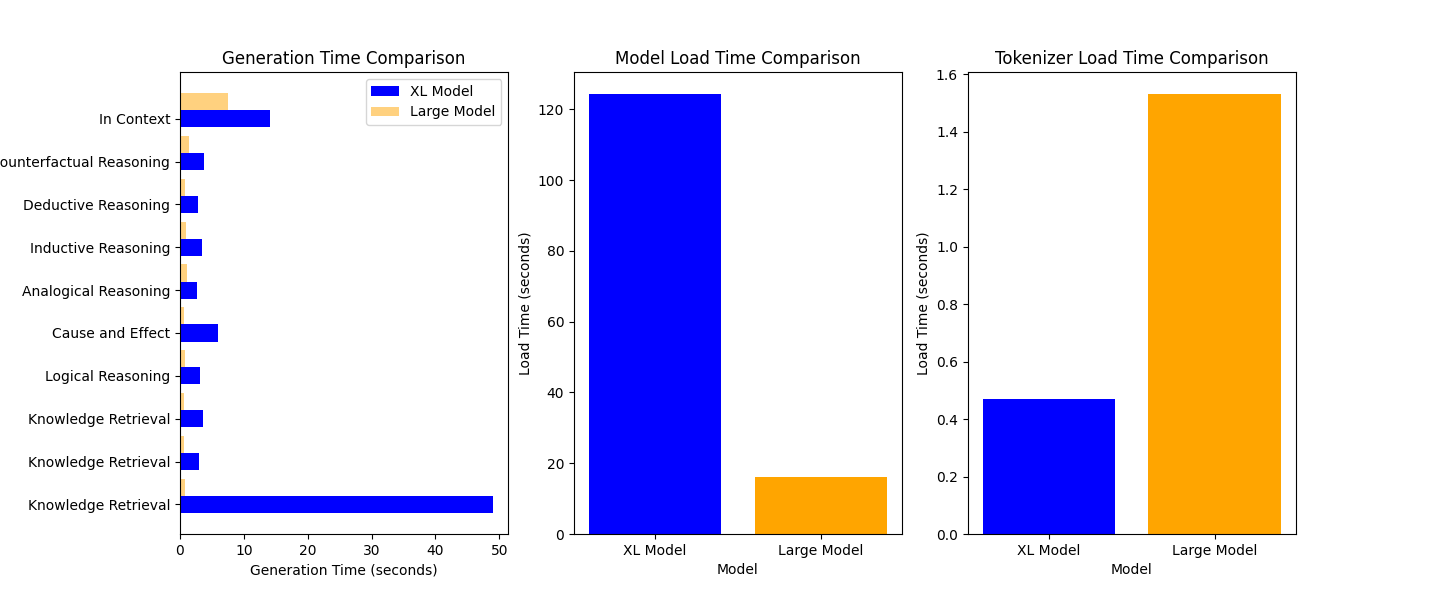
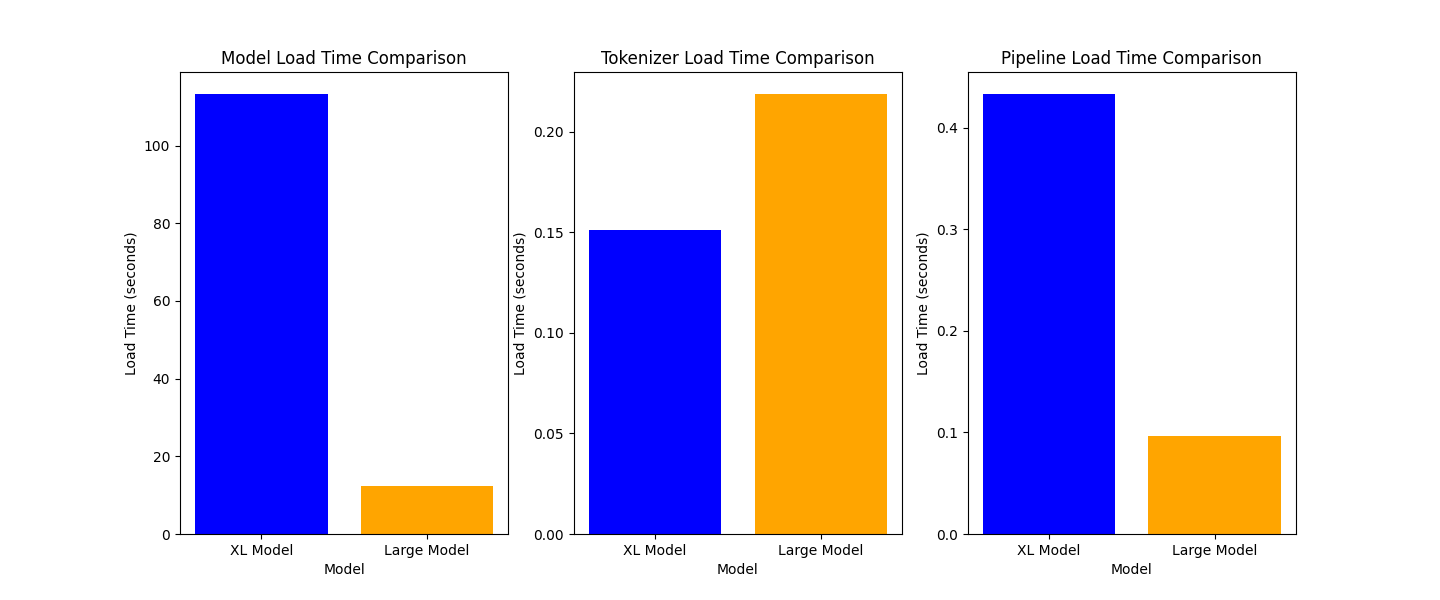
updated script and charts
updated the plots

diff --git a/t5pat46.py b/t5pat46.py
@@ -81,7 +81,7 @@ for model_id in model_ids:
 
     # Print model results
     print()
-    print(f"Results for model {model_id}")
+    print(f"Results for model: {model_id}")
     print("=" * 30)
 
     # Knowledge retrieval examples
@@ -107,22 +107,13 @@ for model_id in model_ids:
     print("Model Loading Time:", f"{model_end_time - model_start_time:.5f}", "seconds")
     print("Pipeline Loading Time:", f"{pipe_end_time - pipe_start_time:.5f}", "seconds\n\n")
 
-# Plot generation times
-plt.figure(figsize=(18, 6))
-plt.subplot(131)
-plt.barh(range(len(types)), xl_generation_times, height=0.4, align='center', color='blue', label='XL Model')
-plt.barh([x + 0.4 for x in range(len(types))], large_generation_times, height=0.4, align='center', color='orange', alpha=0.5, label='Large Model')
-plt.yticks(range(len(types)), types)
-plt.ylabel('Type')
-plt.xlabel('Generation Time (seconds)')
-plt.title('Generation Time Comparison')
-plt.legend()
 
 # Plot model load times
 model_load_times = [sum(xl_model_load_times), sum(large_model_load_times)]
 model_labels = ['XL Model', 'Large Model']
 
-plt.subplot(132)
+plt.figure(figsize=(18, 6))
+plt.subplot(131)
 plt.bar(model_labels, model_load_times, color=['blue', 'orange'])
 plt.ylabel('Load Time (seconds)')
 plt.xlabel('Model')
@@ -131,7 +122,7 @@ plt.title('Model Load Time Comparison')
 # Plot tokenizer load times
 tokenizer_load_times = [sum(xl_tokenizer_load_times), sum(large_tokenizer_load_times)]
 
-plt.subplot(133)
+plt.subplot(132)
 plt.bar(model_labels, tokenizer_load_times, color=['blue', 'orange'])
 plt.ylabel('Load Time (seconds)')
 plt.xlabel('Model')
@@ -139,13 +130,23 @@ plt.title('Tokenizer Load Time Comparison')
 
 # Plot pipeline load times
 pipeline_load_times = [sum(xl_pipeline_load_times), sum(large_pipeline_load_times)]
-
-plt.figure(figsize=(8, 6))
+plt.subplot(133)
 plt.bar(model_labels, pipeline_load_times, color=['blue', 'orange'])
 plt.ylabel('Load Time (seconds)')
 plt.xlabel('Model')
 plt.title('Pipeline Load Time Comparison')
 
+# Plot generation times
+plt.figure(figsize=(9, 6))
+plt.barh(range(len(types)), xl_generation_times, height=0.4, align='center', color='blue', label='XL Model')
+plt.barh([x + 0.4 for x in range(len(types))], large_generation_times, height=0.4, align='center', color='orange', alpha=0.5, label='Large Model')
+plt.yticks(range(len(types)), types)
+plt.ylabel('Type')
+plt.xlabel('Generation Time (seconds)')
+plt.title('Generation Time Comparison')
+plt.legend()
+
 plt.tight_layout()
 plt.show()
+
 
